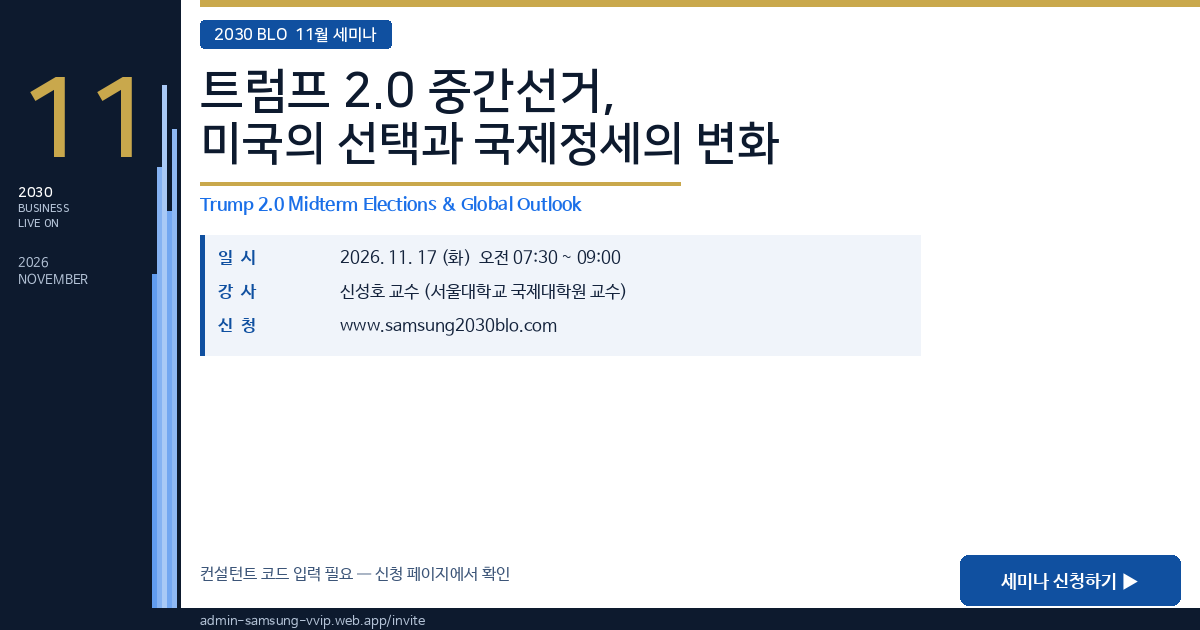
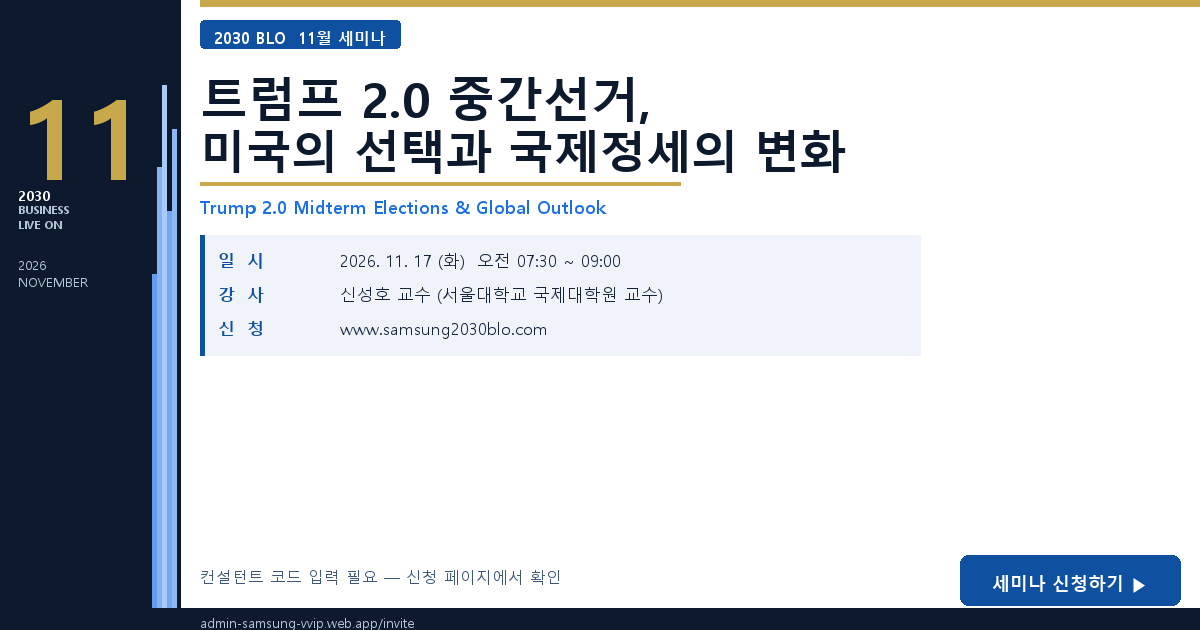
feat: 초대 페이지 PC 2열 레이아웃, 확대 허용, 강사 소개 제목 중복 수정

diff --git a/invite.html b/invite.html
@@ -2,7 +2,7 @@
 <html lang="ko">
 <head>
 <meta charset="UTF-8">
-<meta name="viewport" content="width=device-width, initial-scale=1.0, maximum-scale=1.0, user-scalable=no">
+<meta name="viewport" content="width=device-width, initial-scale=1.0, maximum-scale=5.0">
 <meta property="og:type" content="website">
 <meta property="og:title" content="세미나 신청하기 | BLO 조찬세미나">
 <meta property="og:description" content="트럼프 2.0 중간선거, 미국의 선택과 국제정세의 변화 | 11/17(화) 오전 7:30 | 신성호 교수 | 신청: www.samsung2030blo.com">
@@ -519,6 +519,19 @@ html, body {
   text-align:center; padding:10px 16px; letter-spacing:0.2px; line-height:1.5;
 }
 
+/* ══ PC 레이아웃 (넓은 화면: 2열) ══ */
+@media (min-width: 1000px) {
+  .wrap { max-width: 1080px; }
+  .desk-cols { display: grid; grid-template-columns: minmax(0, 1fr) 460px; align-items: start; }
+  .desk-main { border-right: 1px solid #E1E8F2; }
+  .desk-side { background: #fff; }
+  .sticky-cta { max-width: 1080px; }
+}
+@media (min-width: 640px) and (max-width: 999px) {
+  .wrap { max-width: 640px; }
+  .sticky-cta { max-width: 640px; }
+}
+
 </style>
 </head>
 <body data-event-date="2026-11-17">
@@ -548,9 +561,10 @@ html, body {
   <div class="hero-divider"></div>
 </div>
 
+<div class="desk-cols"><div class="desk-main">
 <!-- ② 강사 소개 (2인) -->
 <div class="speakers-bar">
-  <div class="speakers-title">강사 소개 · 강사 소개</div>
+  <div class="speakers-title">강사 소개</div>
     <div class="speaker-row">
     <div class="part-badge"></div>
     <div class="sp-circle">
@@ -607,6 +621,8 @@ html, body {
   <p>11월 Business Live ON은<br>서울대학교 신성호 교수와 함께<br>미국발(發) 국제정세의 변화를 전망합니다.</p>
 </div>
 
+</div><!-- /desk-main -->
+<div class="desk-side">
 <!-- ⑤ 신청 섹션 (핵심 개편) -->
 <div class="apply-sec" id="applySection">
   <div class="apply-sec-title">세미나 신청하기</div>
@@ -723,6 +739,9 @@ html, body {
     <button class="refer-btn" onclick="shareInvite('refer')">📤 지인에게 추천하기</button>
   </div>
 </div>
+
+</div><!-- /desk-side -->
+</div><!-- /desk-cols -->
 
 <!-- ⑥ 행사 진행 흐름 -->
 <div class="flow-sec">

diff --git a/invite.template.html b/invite.template.html
@@ -2,7 +2,7 @@
 <html lang="ko">
 <head>
 <meta charset="UTF-8">
-<meta name="viewport" content="width=device-width, initial-scale=1.0, maximum-scale=1.0, user-scalable=no">
+<meta name="viewport" content="width=device-width, initial-scale=1.0, maximum-scale=5.0">
 <meta property="og:type" content="website">
 <meta property="og:title" content="세미나 신청하기 | BLO 조찬세미나">
 <meta property="og:description" content="{{OG_TITLE}} | {{WATCH_DATE}} 오전 7:30 | {{OG_DESC_SPEAKERS}} | 신청: www.samsung2030blo.com">
@@ -519,6 +519,19 @@ html, body {
   text-align:center; padding:10px 16px; letter-spacing:0.2px; line-height:1.5;
 }
 
+/* ══ PC 레이아웃 (넓은 화면: 2열) ══ */
+@media (min-width: 1000px) {
+  .wrap { max-width: 1080px; }
+  .desk-cols { display: grid; grid-template-columns: minmax(0, 1fr) 460px; align-items: start; }
+  .desk-main { border-right: 1px solid #E1E8F2; }
+  .desk-side { background: #fff; }
+  .sticky-cta { max-width: 1080px; }
+}
+@media (min-width: 640px) and (max-width: 999px) {
+  .wrap { max-width: 640px; }
+  .sticky-cta { max-width: 640px; }
+}
+
 </style>
 </head>
 <body data-event-date="{{EVENT_ISO_DATE}}">
@@ -548,9 +561,10 @@ html, body {
   <div class="hero-divider"></div>
 </div>
 
+<div class="desk-cols"><div class="desk-main">
 <!-- ② 강사 소개 (2인) -->
 <div class="speakers-bar">
-  <div class="speakers-title">강사 소개 · {{SPEAKERS_TITLE}}</div>
+  <div class="speakers-title">강사 소개{{SPEAKERS_TITLE}}</div>
   {{SPEAKERS_HTML}}
 </div>
 
@@ -595,6 +609,8 @@ html, body {
   {{BODY_HTML}}
 </div>
 
+</div><!-- /desk-main -->
+<div class="desk-side">
 <!-- ⑤ 신청 섹션 (핵심 개편) -->
 <div class="apply-sec" id="applySection">
   <div class="apply-sec-title">세미나 신청하기</div>
@@ -711,6 +727,9 @@ html, body {
     <button class="refer-btn" onclick="shareInvite('refer')">📤 지인에게 추천하기</button>
   </div>
 </div>
+
+</div><!-- /desk-side -->
+</div><!-- /desk-cols -->
 
 <!-- ⑥ 행사 진행 흐름 -->
 <div class="flow-sec">

diff --git a/scripts/build_invite.py b/scripts/build_invite.py
@@ -244,7 +244,7 @@ def build_invite(d):
         "{{HERO_LABEL}}":           d.get("heroLabel",""),
         "{{HERO_H1}}":              hero_h1(d),
         "{{HERO_SUB}}":             d.get("subtitle",""),
-        "{{SPEAKERS_TITLE}}":       sp_title_parts + " 부" if sp_title_parts else "강사 소개",
+        "{{SPEAKERS_TITLE}}":       (" · " + sp_title_parts + " 부") if sp_title_parts else "",
         "{{SPEAKERS_HTML}}":        sp_html,
         "{{EVENT_DATE}}":           d.get("eventDate",""),
         "{{EVENT_ISO_DATE}}":       event_iso_date(d),
